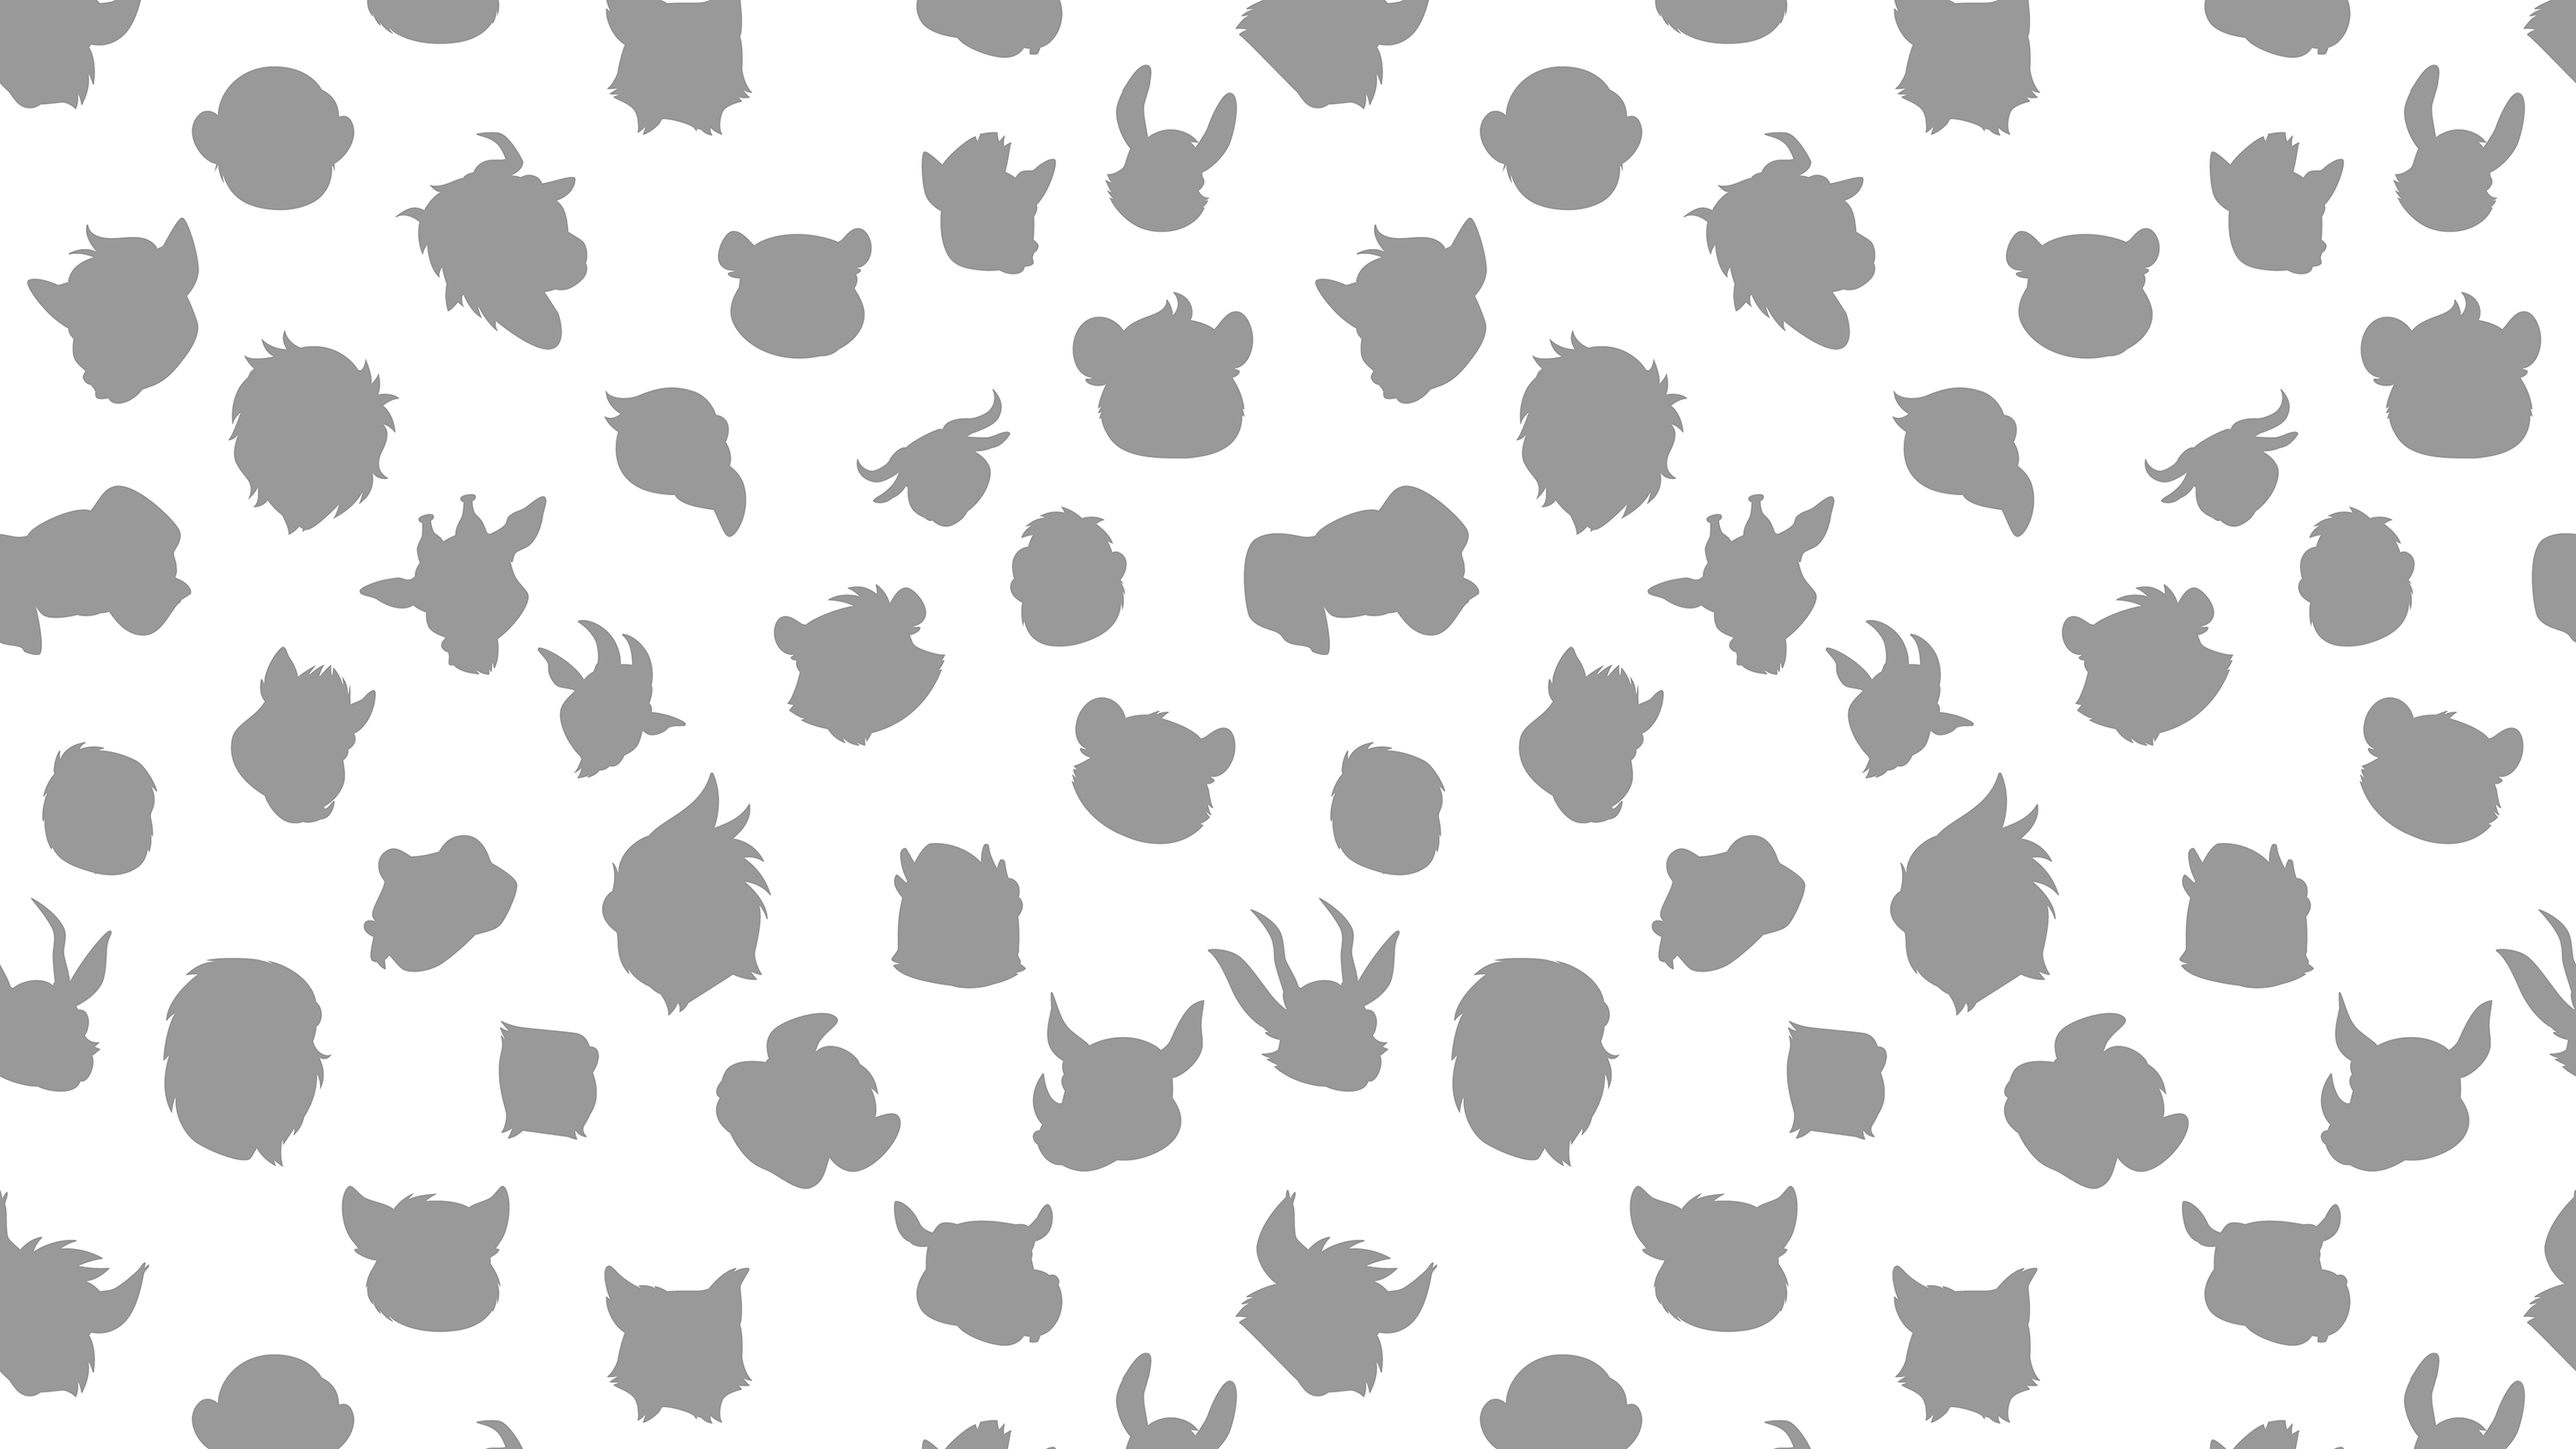
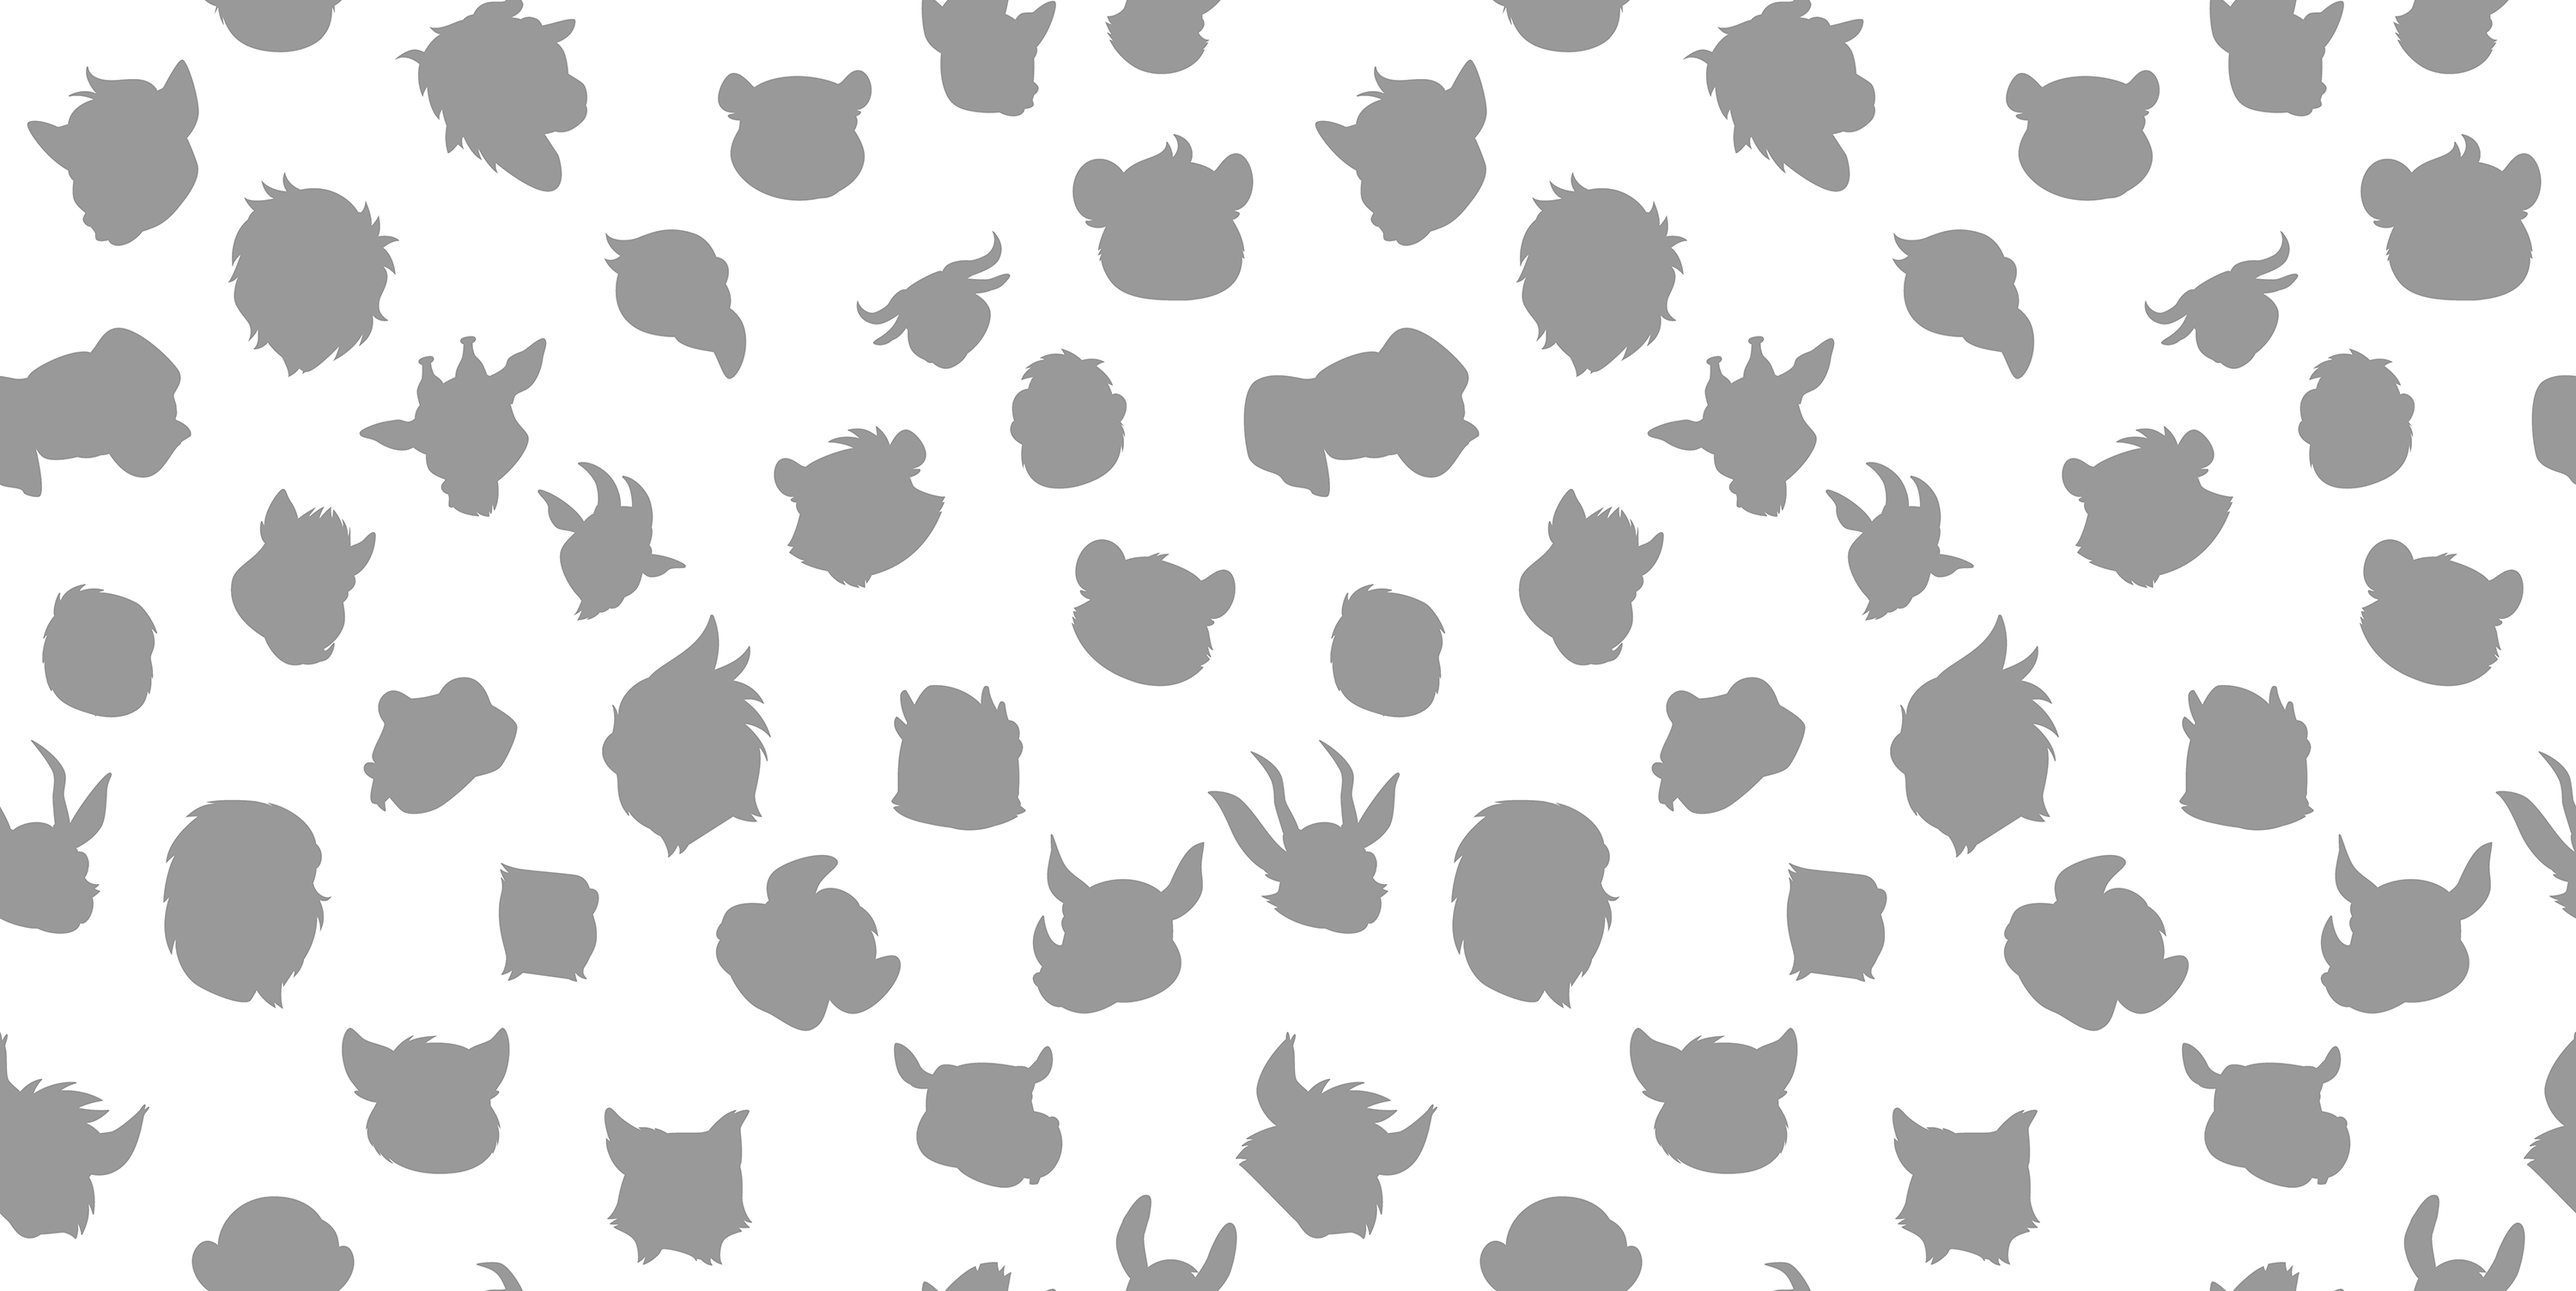
[jungleverse] - Revisions v3.4

diff --git a/jungleverse/index.html b/jungleverse/index.html
@@ -20,7 +20,7 @@
         integrity="sha384-EVSTQN3/azprG1Anm3QDgpJLIm9Nao0Yz1ztcQTwFspd3yD65VohhpuuCOmLASjC" crossorigin="anonymous">
 
     <!-- Self -->
-    <link rel='stylesheet' type='text/css' media='screen' href='style.css?v0.3.3.2'>
+    <link rel='stylesheet' type='text/css' media='screen' href='style.css?v0.3.4'>
 
 </head>
 
@@ -59,9 +59,11 @@
                         <div>0.004</div>
                     </div>
 
-                    <div class="cndce-adopt-modal-quantity py-4 mt-3">
+                    <div id="cndce-adopt-modal-quantity" class="cndce-adopt-modal-quantity py-4 mt-3" data-max="20" data-min="1">
                         <div>
-                            <button class="cndce-adopt-modal-quantity-btn">
+                            <button 
+                            id="cndce-adopt-modal-quantity-btn-minus"
+                            class="cndce-adopt-modal-quantity-btn">
                                 -
                             </button>
                         </div>
@@ -70,12 +72,14 @@
                                 Quantity
                             </div>
                             <div class="text-center">
-                                <h5>1</h5>
+                                <h5 id="cndce-adopt-modal-quantity-value">1</h5>
                             </div>
                         </div>
 
                         <div>
-                            <button class="cndce-adopt-modal-quantity-btn">
+                            <button 
+                            id="cndce-adopt-modal-quantity-btn-plus"
+                            class="cndce-adopt-modal-quantity-btn">
                                 +
                             </button>
                         </div>
@@ -875,7 +879,7 @@
     </script>
 
     <!-- Self -->
-    <script src='./script.js?v0.3.3'></script>
+    <script src='./script.js?v0.3.4'></script>
 
 
 </body>

diff --git a/jungleverse/script.js b/jungleverse/script.js
@@ -9,6 +9,11 @@
     const domMobileMenu = document.getElementById('cndce-mobile-menu');
     const domMobileMenuClose = document.getElementById('cndce-menu-close');
 
+    const domAdoptQuantity = document.getElementById("cndce-adopt-modal-quantity");
+    const domAdoptQuantityMinus = document.getElementById('cndce-adopt-modal-quantity-btn-minus');
+    const domAdoptQuantityPlus = document.getElementById('cndce-adopt-modal-quantity-btn-plus');
+    const domAdoptQuantityValue = document.getElementById('cndce-adopt-modal-quantity-value');
+
 
     function initHeaderSticky(){
         if(window.scrollY > 0){
@@ -43,6 +48,16 @@
         
     }
 
+
+    function updateAdoptQuantityValue(delta){
+        const value = parseInt(domAdoptQuantityValue.innerText);
+
+        if(value + delta >= domAdoptQuantity.dataset.min && value + delta <= domAdoptQuantity.dataset.max){
+            domAdoptQuantityValue.innerText = value + delta;
+        }
+
+    }
+
     window.addEventListener('scroll', function(){
         showTimelineBg();
 
@@ -56,6 +71,14 @@
 
     domMobileMenuClose.addEventListener('click', function(){
         document.body.classList.remove('show-menu');
+    })
+
+    domAdoptQuantityMinus.addEventListener('click', function(){
+        updateAdoptQuantityValue(-1);
+    })
+
+    domAdoptQuantityPlus.addEventListener('click', function(){
+        updateAdoptQuantityValue(1);
     })
 
 

diff --git a/jungleverse/style.css b/jungleverse/style.css
@@ -51,13 +51,13 @@ button.btn-yellow{
 }
 
 .cndce-bg-animated{
-    background-image: url("assets/bg-tile.png");
-    -webkit-animation: background-animation 30s linear infinite;
-    animation: background-animation 30s linear infinite;
+    background-image: url("assets/bg-tile.png?v3.4");
+    -webkit-animation: background-animation 90s linear infinite;
+    animation: background-animation 90s linear infinite;
     background-size: 100% auto;
 }
 
-@keyframes background-animation{to{background-position:0 0}0%{background-position:1780px -690px}}
+@keyframes background-animation{to{background-position:0 0}0%{background-position:3000px -1504px}}
 
 
 /* Header */
